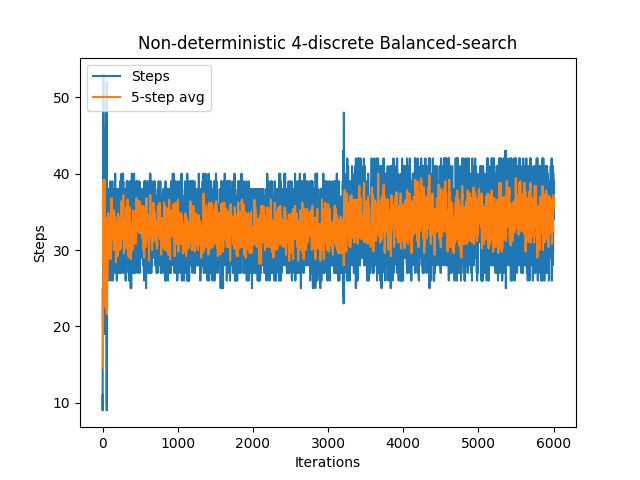
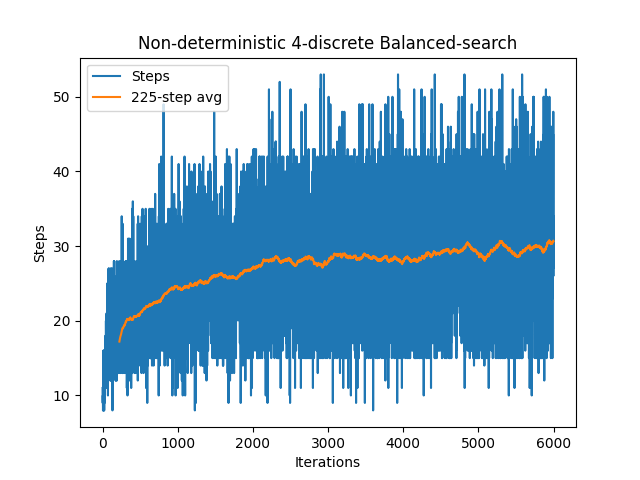
Discrete bucketed tree now slightly learning

diff --git a/classes/discreteCartPoleTreeNode.py b/classes/discreteCartPoleTreeNode.py
@@ -6,21 +6,22 @@ from helper.strategy_names import *
 RISK_THRESHOLD = 4.5
 EXPLORE_PERCENTAGE = 0.5
 STRATEGY = BALANCED
-ACCURACY_LIMIT = 0.01
+ACCURACY_LIMIT = 0.1
+
+PRINT_CHOICES = False
 
 ########################
 
-class CartPoleTreeNode:
+class DCartPoleTreeNode:
     def __init__(self, state, time_step, strategy, id):
         self.name = "test"
         self.children = [{}, {}]
         self.state = state
         self.time_step = time_step
         self.is_final = False
-        self.max_depth = 1
-        self.avg_max_depth = [1, 1]
+        self.max_depth = [1, 1]
         self.max_unexplored_depth = [1, 1]
-        self.avg_risk_weighted_score = self.update_risk_weighted_score()
+        self.risk_weighted_score = self.update_risk_weighted_score()
         self.holes_beneath = [1, 1]
         self.most_recent_choice = -1
         self.strategy = strategy
@@ -31,24 +32,24 @@ class CartPoleTreeNode:
     def mark_final(self):
         self.max_depth = [0, 0]
         self.max_unexplored_depth = [0, 0]
-        self.avg_risk_weighted_score = [0, 0]
-        self.holes_beneath = 0
+        self.risk_weighted_score = [0, 0]
+        self.holes_beneath = [0, 0]
         self.is_final = True
-        self.risk_weighted_score = 0
+        self.visited += 1
 
 
     def update(self):
         if not self.children[0] and not self.children[1]:
-            self.max_depth = [self.avg_max_depth(self.children[0]), self.avg_max_depth(self.children(1))]
-            self.max_unexplored_depth = [self.avg_max_unexplored_depth(self.children[0]), self.avg_max_unexplored_depth(self.children(1))]
-            if self.max_unexplored_depth >= 0.5:
+            self.max_depth = [self.average_max_depth(self.children[0]), self.average_max_depth(self.children(1))]
+            self.max_unexplored_depth = [self.average_max_unexplored_depth(self.children[0]), self.average_max_unexplored_depth(self.children(1))]
+            if max(self.max_unexplored_depth) >= 0.5:
                 self.max_unexplored_depth += 1
             self.holes_beneath = [self.average_holes_beneath(self.children[0]), self.average_holes_beneath(self.children(1))]
         else:
-            i = 0 if not self.children[0] else 1
-            self.max_depth = max(self.avg_max_depth(self.children[1]), 1)
-            self.max_unexplored_depth = self.avg_max_unexplored_depth(self.children[1]) + 1
-            self.holes_beneath = self.average_holes_beneath(self.children[i]) + 1
+            i = self.most_recent_choice
+            self.max_depth[i] = self.average_max_depth(self.children[1])
+            self.max_unexplored_depth[i] = self.average_max_unexplored_depth(self.children[1]) #TODO check if this is correct
+            self.holes_beneath[i] = self.average_holes_beneath(self.children[i])
         self.visited += 1
         self.risk_weighted_score = self.update_risk_weighted_score()
 
@@ -64,15 +65,25 @@ class CartPoleTreeNode:
     def register_move(self, new_state, new_time_step, direction):
         bucket = self.calc_state_bucket(new_state)
         if bucket in self.children[direction]:
-            self.children[direction][bucket] = self.strategy
+            self.children[direction][bucket].strategy = self.strategy
         else:
             id = self.id + str(self.most_recent_choice)
-            self.children[direction][bucket] = CartPoleTreeNode(new_state, new_time_step, self.strategy, id)
+            self.children[direction][bucket] = DCartPoleTreeNode(new_state, new_time_step, self.strategy, id)
+        return self.children[direction][bucket]
+
+    def register_existing(self, new_node, new_time_step, direction):
+        bucket = self.calc_state_bucket(new_node.get_state_bucket())
+        if bucket in self.children[direction]:
+            self.children[direction][bucket].strategy = self.strategy
+        else:
+            id = self.id + str(self.most_recent_choice)
+            self.children[direction][bucket] = new_node
+            self.children[direction][bucket].strategy = self.strategy
         return self.children[direction][bucket]
 
     def child_has_unexplored(self, child):
-        for state, node in self.children[child]:
-            if node.max_unexplored_depths > 0:
+        for state, node in self.children[child].items():
+            if max(node.max_unexplored_depth) > 0:
                 return True
         return False
 
@@ -87,7 +98,7 @@ class CartPoleTreeNode:
                 choice = self.explore()
                 self.strategy = EXPLORE
             else:
-                choice = self.balanced()
+                choice = self.maximize_points()
         elif self.strategy == EXPLORE:
             return self.explore()
         else:
@@ -108,18 +119,13 @@ class CartPoleTreeNode:
             return 0
         if not child:
             return 1 + RISK_THRESHOLD
-        sum = 0
-        odds_of_unvisited = 0
-        visited = 0
-        for key, node in child.items:
-            visited += node.visited
-            sum += node.visited * node.best_risk_weighted_score()
-            odds_of_unvisited += node.odds_of_unvisited_below if node.max_unexplored_depths != 0 else 0
-        sum /= visited
-        return sum + 1 + RISK_THRESHOLD*odds_of_unvisited
+        total_sum = self.average_max_depth(child)
+        unexplored_sum = self.average_max_unexplored_depth(child) + RISK_THRESHOLD
+
+        return max(total_sum, unexplored_sum)
 
     def best_risk_weighted_score(self):
-        return max(self.avg_risk_weighted_score)
+        return max(self.risk_weighted_score)
 
     def average_max_depth(self, child):
         if self.is_final:
@@ -128,9 +134,9 @@ class CartPoleTreeNode:
             return 1
         sum = 0
         visited = 0
-        for key, node in child.items:
+        for key, node in child.items():
             visited += node.visited
-            sum += node.visited * max(node.max_depth)
+            sum += node.visited * (node.max_depth[0] + node.max_depth[1])
         sum /= visited
         return sum + 1
 
@@ -142,10 +148,10 @@ class CartPoleTreeNode:
         sum = 0
         more_than_1 = 0
         visited = 0
-        for key, node in child.items:
+        for key, node in child.items():
             visited += node.visited
             sum += node.visited * max(node.max_unexplored_depth)
-            more_than_1 += node.visited * (1 if node.max_unexplored_depth >= 1 else 0)
+            more_than_1 += node.visited * (1 if max(node.max_unexplored_depth) >= 1 else 0)
         sum /= visited
         if more_than_1 < visited*0.5:
             sum = -1
@@ -158,9 +164,9 @@ class CartPoleTreeNode:
             return 1
         sum = 0
         visited = 0
-        for key, node in child.items:
+        for key, node in child.items():
             visited += node.visited
-            sum += node.visited * sum(node.holes_beneath)
+            sum += node.visited * (node.holes_beneath[0] + node.holes_beneath[1])
         sum /= visited
         return sum
 
@@ -176,20 +182,16 @@ class CartPoleTreeNode:
             return 0
         if right_explorable and not left_explorable:
             return 1
-        return self.balanced()
-
-    def balanced(self):
-        left_score = 1 + RISK_THRESHOLD if not self.children[0] else self.avg_risk_weighted_score[0]
-        right_score = 1 + RISK_THRESHOLD if not self.children[0] else self.avg_risk_weighted_score[1]
-        if left_score == right_score:
-            return 0
-        return 0 if left_score > right_score else 1
+        return self.maximize_points()
 
     def maximize_points(self):
-        left_score = 1 + RISK_THRESHOLD if not self.children[0] else self.avg_risk_weighted_score[0]
-        right_score = 1 + RISK_THRESHOLD if not self.children[0] else self.avg_risk_weighted_score[1]
+        left_score = self.risk_weighted_score[0]
+        right_score = self.risk_weighted_score[1]
         if left_score == right_score:
             return 0
+        if PRINT_CHOICES:
+            print(f"{self.id=}, Choosing {0 if left_score > right_score else 1}, {left_score=}, {right_score=}")
+            input()
         return 0 if left_score > right_score else 1
 
     def consider_explore(self):

diff --git a/cartPole/discreteTree.py b/cartPole/discreteTree.py
@@ -8,7 +8,7 @@ import helper.plotHelper as plotHelper
 import helper.KNearestNeighbor as kNearest
 from helper.strategy_names import *
 import helper.fileHelper as fileHelper
-from classes.cartPoleTreeNode import *
+from classes.discreteCartPoleTreeNode import *
 
 
 ############### Constants ###################
@@ -47,7 +47,7 @@ if MANUAL_ROLLING_AVERAGE == -1:
 else:
     window_width = MANUAL_ROLLING_AVERAGE
 
-def run_k_nearest(k=-1, show_results=True, save_results=True, window_width=5):
+def run_k_nearest(k=-1, show_results=True, save_results=True):
     if k > 0:
         kNearest.K = k
     env = gym.make("CartPole-v1", render_mode=render_mode)
@@ -68,11 +68,9 @@ def run_k_nearest(k=-1, show_results=True, save_results=True, window_width=5):
 
     all_nodes = {}
     data = np.array([], dtype=int)
-    root_node = CartPoleTreeNode(observation, 0, START_STRATEGY, "-")
+    root_node = DCartPoleTreeNode(observation, 0, START_STRATEGY, "-")
     visited_nodes = []
     current_node = root_node
-
-    #TODO update this file so we can make it run
 
     while its_before_finished < CUTOFFPOINT:
         if steps_alive%STEPS_PER_NODE == 0:
@@ -82,9 +80,12 @@ def run_k_nearest(k=-1, show_results=True, save_results=True, window_width=5):
 
         if steps_alive%STEPS_PER_NODE == 0:
             visited_nodes.append(current_node)
-            current_node = current_node.register_move(observation, steps_alive, action)
-
-
+            new_node_bucket = current_node.calc_state_bucket(observation)
+            if not new_node_bucket in all_nodes:
+                current_node = current_node.register_move(observation, steps_alive, action)
+                all_nodes[current_node.get_state_bucket] = current_node
+            else:
+                current_node = current_node.register_existing_move(node, steps_alive, action)
         steps_alive += 1
 
         if (np.abs(observation[2]) > ANGLE or np.abs(observation[0]) > 2.4 or truncated):

diff --git a/helper/plotHelper.py b/helper/plotHelper.py
@@ -5,5 +5,6 @@ import numpy as np
 def rolling_average(data, window_width):
     cumsum_vec = np.cumsum(np.insert(data, 0, 0))
     rolling_average = (cumsum_vec[window_width:] - cumsum_vec[:-window_width]) / window_width
+    print(window_width)
     shifted_rolling_avg = np.append([None for i in range(window_width-1)], rolling_average)
     return shifted_rolling_avg
